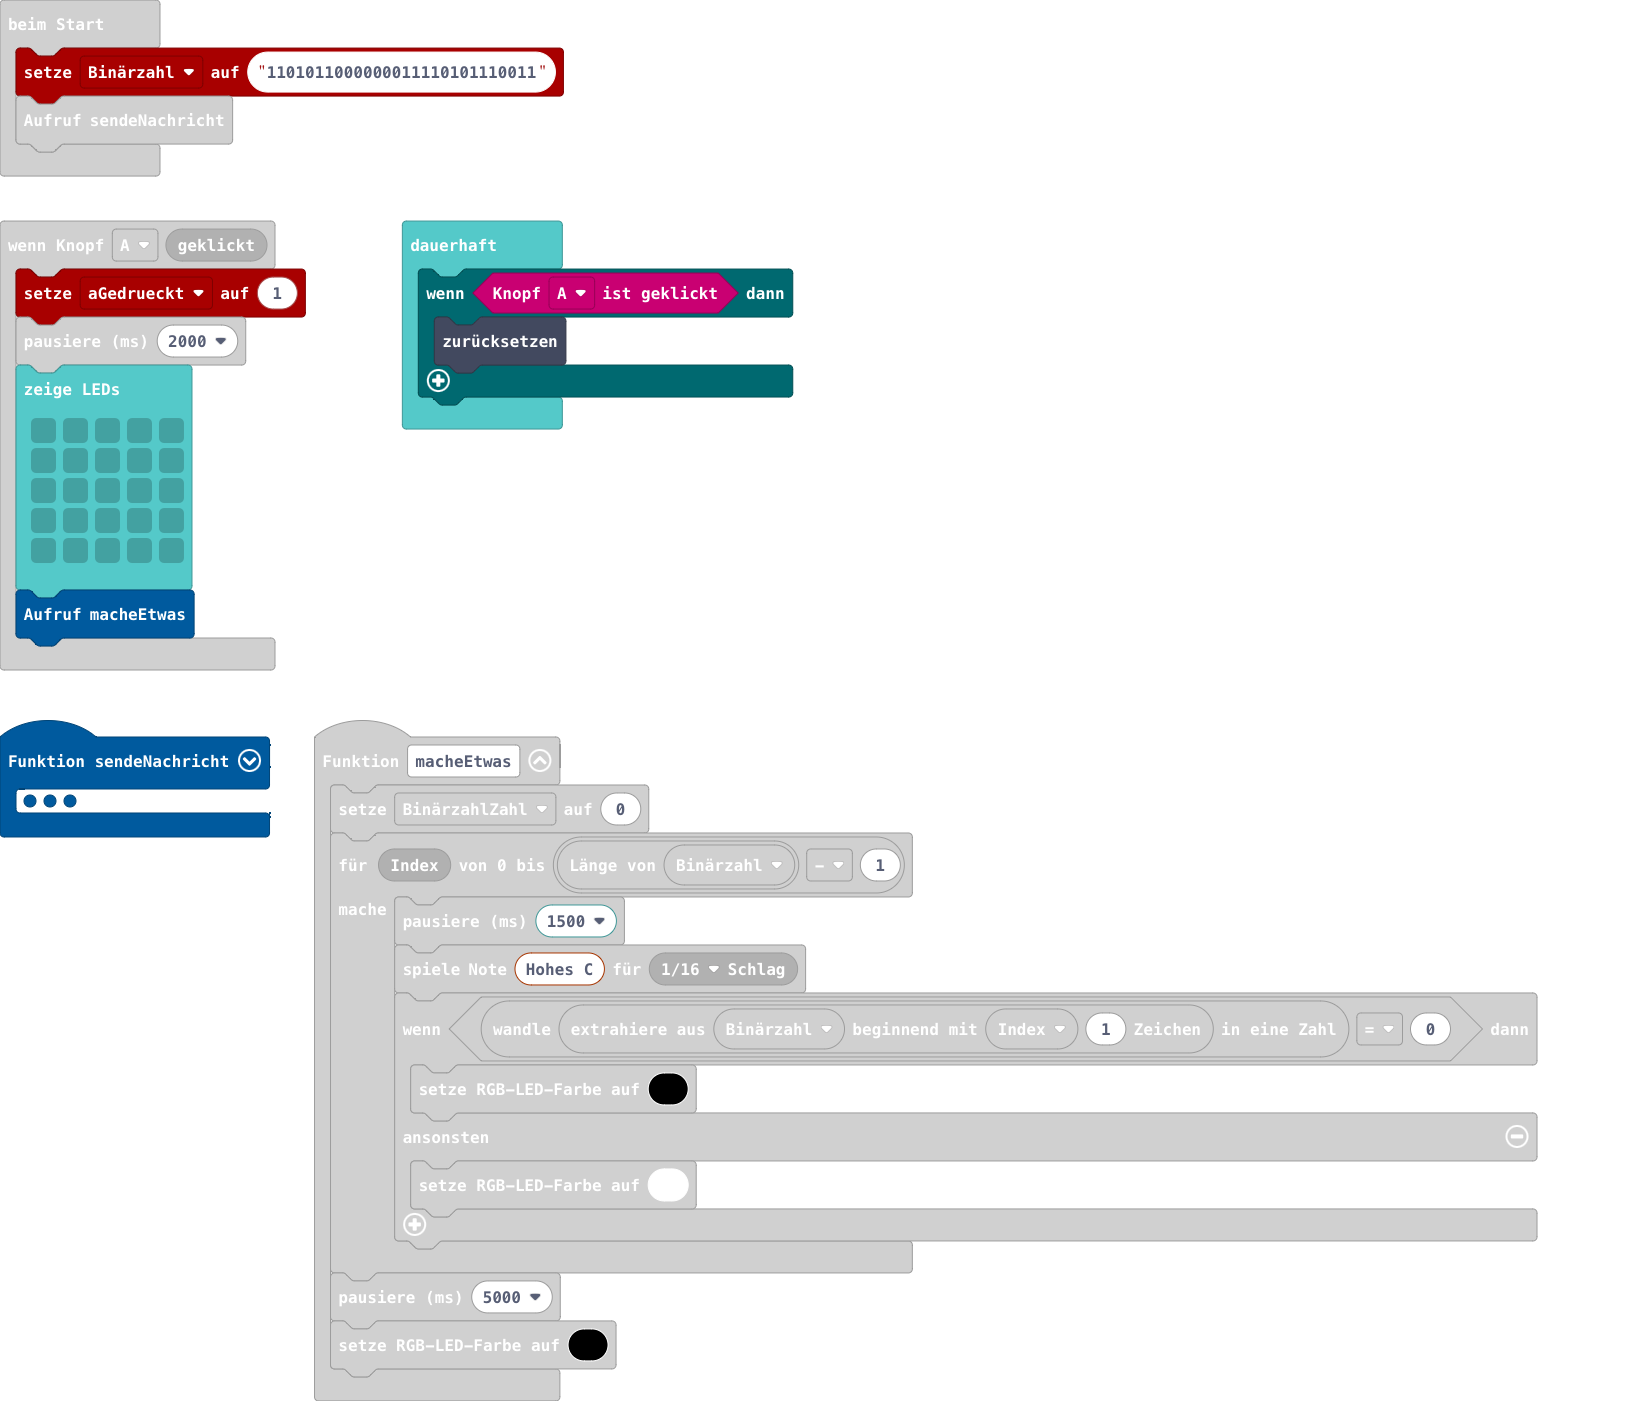
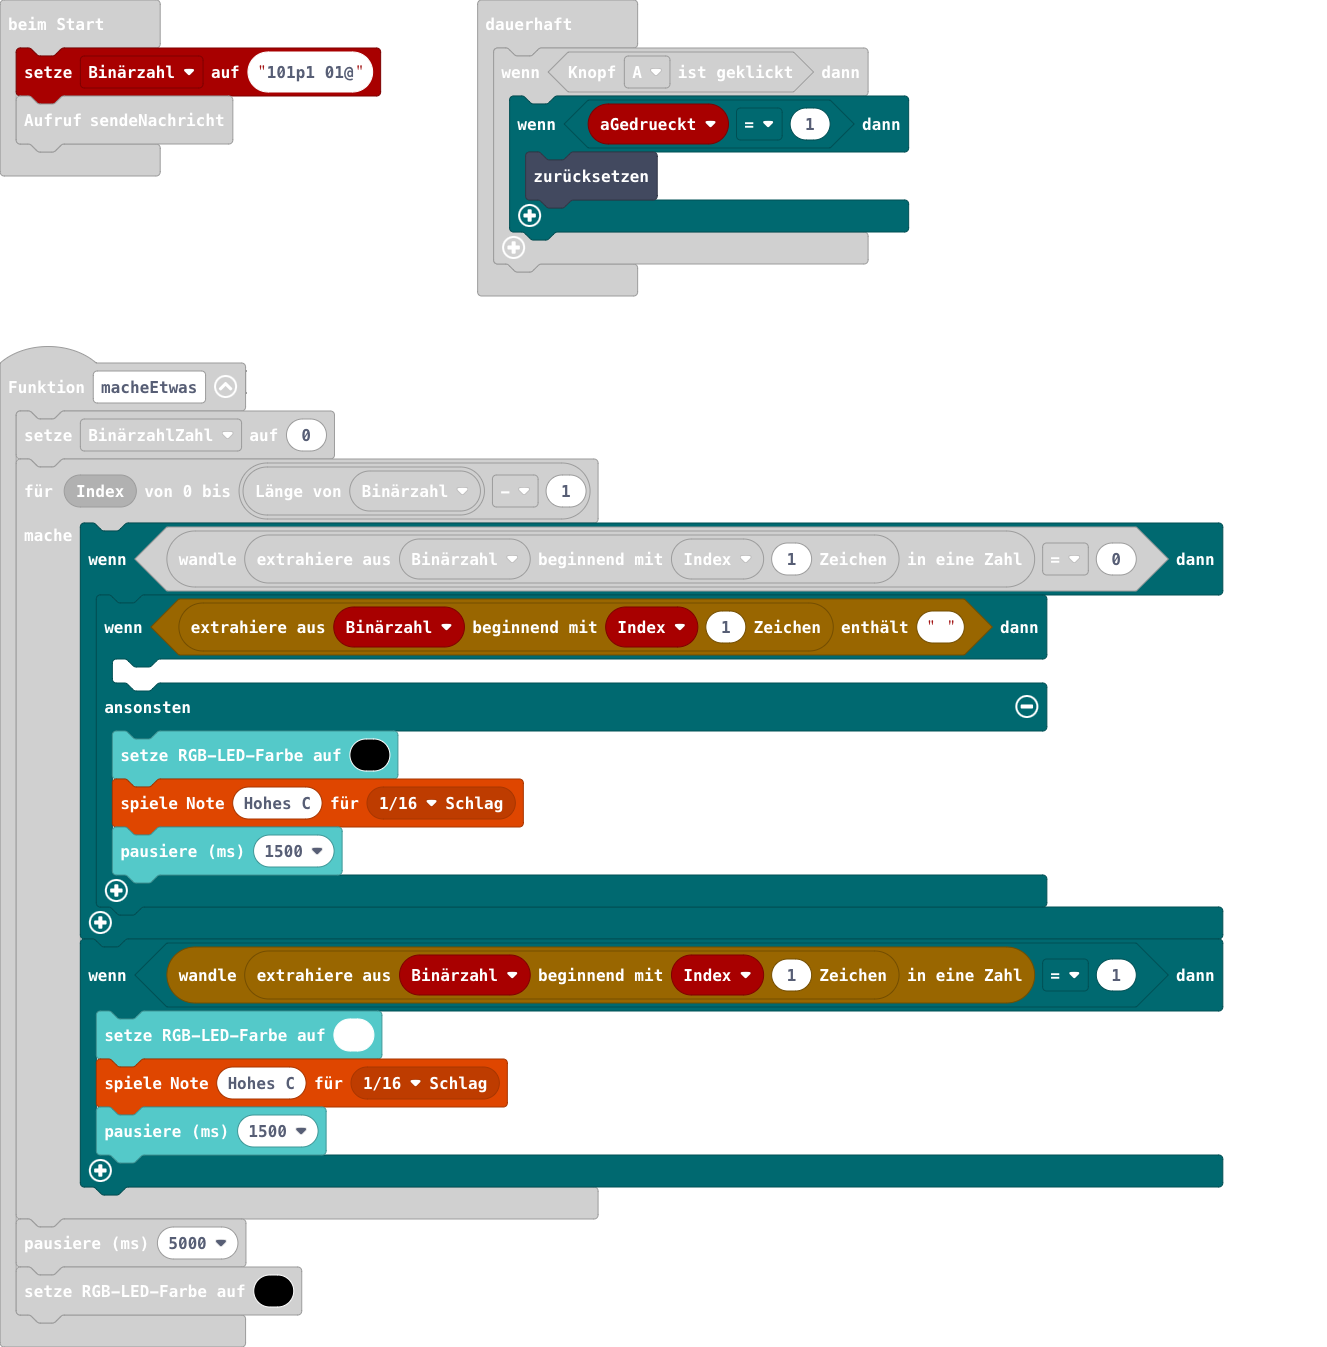
Aktualisiere main.blocks, main.ts

diff --git a/main.ts b/main.ts
@@ -1,12 +1,19 @@
 function macheEtwas () {
     BinärzahlZahl = 0
     for (let Index = 0; Index <= Binärzahl.length - 1; Index++) {
-        basic.pause(1500)
-        music.playTone(523, music.beat(BeatFraction.Sixteenth))
         if (parseFloat(Binärzahl.substr(Index, 1)) == 0) {
-            basic.setLedColor(0x000000)
-        } else {
+            if (Binärzahl.substr(Index, 1).includes(" ")) {
+            	
+            } else {
+                basic.setLedColor(0x000000)
+                music.playTone(523, music.beat(BeatFraction.Sixteenth))
+                basic.pause(1500)
+            }
+        }
+        if (parseFloat(Binärzahl.substr(Index, 1)) == 1) {
             basic.setLedColor(0xffffff)
+            music.playTone(523, music.beat(BeatFraction.Sixteenth))
+            basic.pause(1500)
         }
     }
     basic.pause(5000)
@@ -53,10 +60,12 @@ function sendeNachricht () {
 let aGedrueckt = 0
 let BinärzahlZahl = 0
 let Binärzahl = ""
-Binärzahl = "1101011000000011110101110011"
+Binärzahl = "101p1 01@"
 sendeNachricht()
 basic.forever(function () {
     if (input.buttonIsPressed(Button.A)) {
-        control.reset()
+        if (aGedrueckt == 1) {
+            control.reset()
+        }
     }
 })
